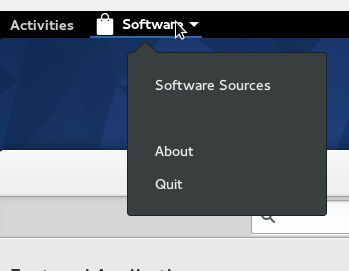
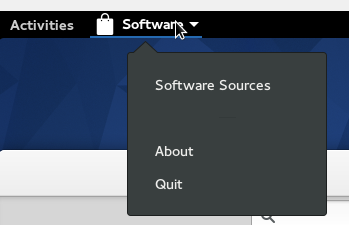
update: combined taskbar and toolbar image

diff --git a/Chapter-04/chapter-04.md b/Chapter-04/chapter-04.md
@@ -245,13 +245,9 @@ Everything in [GNOME 3](https://www.gnome.org/gnome-3/ "GNOME 3") starts with th
 
 You will notice a few other system designs or features.  For instance there is no logout button.  The little white triangle in the upper right hand corner next to the battery and sound icon controls poweroff and restart, but by default there is no logout button.  This is a GNOME feature.  
 
-Each application has a preferences and content menu area in GNOME 3.  It is located right next to the Activities button.  You will see the application name with a small white drop down arrow.
+Each application has a preferences and content menu area in GNOME 3.  It is located right next to the Activities button.  You will see the application name with a small white drop down arrow. In order to find the window commands for open, close, resize, tiling, and so forth you just need to right click on the gray toolbar on top of the window that has the focus.
 
-![*GNOME 3 Taskbar*](images/Chapter-04/taskbar.png "Taskbar")
-
-In order to find the window commands for open, close, resize, tiling, and so forth you just need to right click on the gray toolbar on top of the window that has the focus.
-
-![*GNOME 3 Toolbar*](images/Chapter-04/toolbar.png "Toolbar")
+![*GNOME 3 Taskbar*](images/Chapter-04/GNOME3/taskbar-and-toolbar.png "Taskbar")
 
 #### GNOME 40 Features
 
